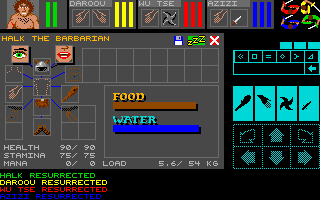
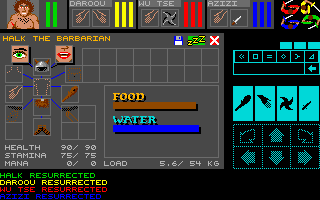
Inventory and spell panel text at CSBWin's pens

diff --git a/tools/dump-magic-panel.ts b/tools/dump-magic-panel.ts
@@ -14,6 +14,10 @@
  *    `CastMagic` clears the runes unless `CastSpell` returned 3 (`:949-955`).
  * 4. The two deliberate divergences (`DEBT.md` → H): a fifth rune is refused, and a champion
  *    with no mana has no tab to click.
+ * 5. Where the runes and the incantation are drawn: `DrawSpellMenuCharacters` from
+ *    `D6W = 225` at `D6W += 14`, y 58 (`doc/CSBwin-src/CSBCode.cpp:8946-8960`), and
+ *    `DisplayMagicSelection` from `D6W = 232` at `D6W += 9`, y 70
+ *    (`doc/CSBwin-src/Magic.cpp:776-796`), a glyph starting at the pen.
  *
  * Run: `npx tsx tools/dump-magic-panel.ts`
  */
@@ -27,7 +31,9 @@ import { addCharacterDefaults } from '../src/engine/AddCharacter';
 import { emptyPossessions, type Champion } from '../src/engine/gameTypes';
 import { ensureSkills } from '../src/engine/skills';
 import { extractUITables } from '../src/renderer/csbwin/UITables';
-import { handleMagicClick } from '../src/renderer/ui/MagicPanel';
+import { createPaletteIndexViewportBuffer } from '../src/renderer/csbwin/CanvasBlitter';
+import { drawTextLineIndexRaw, loadFontData } from '../src/renderer/csbwin/TextRenderer';
+import { drawMagicIncantation, drawSpellMenuCharacters, handleMagicClick } from '../src/renderer/ui/MagicPanel';
 import { createUIState } from '../src/renderer/ui/UIState';
 import { newGame } from './lib/game';
 import { check, finish } from './lib/check';
@@ -184,6 +190,26 @@ async function main(): Promise<void> {
   party.champions[1]!.attributes.maxMana = 0;
   check(clickAt(0, tab(0, 1)[0] + 1) === 0, 'a champion with no mana cannot be picked');
   check(clickAt(0, 513) === 0, 'not by clickX 513 either');
+
+  // ---- 5. The runes and the incantation, against glyphs drawn at CSBWin's own pens.
+  const font = loadFontData(graphics);
+  ui.fontData = font;
+  const drawn = createPaletteIndexViewportBuffer(320, 200, 12);
+  const expected = createPaletteIndexViewportBuffer(320, 200, 12);
+  ui.screenIndexBuffer = drawn;
+  const incantation = [0x60, 0x67, 0x6e];
+  drawSpellMenuCharacters(ui, incantation.length);
+  drawMagicIncantation(ui, incantation);
+  for (let i = 0, x = 225; i < 6; i++) {
+    drawTextLineIndexRaw(expected, font, (x += 14), 58, 4, 0, String.fromCharCode(96 + 6 * 3 + i));
+  }
+  for (let i = 0, x = 232; i < 4; i++) {
+    drawTextLineIndexRaw(expected, font, (x += 9), 70, 4, 0, i < incantation.length ? String.fromCharCode(incantation[i]!) : ' ');
+  }
+  let off = 0;
+  for (let p = 0; p < drawn.pixels.length; p++) if (drawn.pixels[p] !== expected.pixels[p]) off++;
+  console.log(`runes at 239+14i, incantation at 241+9i: ${off} pixels off`);
+  check(off === 0, `the runes and the incantation should sit at CSBWin's pens (${off} pixels off)`);
 
   finish();
 }

diff --git a/src/renderer/ui/Character.ts b/src/renderer/ui/Character.ts
@@ -80,7 +80,7 @@ export function drawAttributePanel(ui: UIState, champion: Champion): void {
     drawTextLineIndexRaw(
       ui.screenIndexBuffer,
       ui.fontData,
-      VIEWPORT_X + 107,
+      VIEWPORT_X + 108,
       VIEWPORT_Y + lineY,
       13,
       null,
@@ -111,7 +111,7 @@ export function drawAttributePanel(ui: UIState, champion: Champion): void {
     drawTextLineIndex(
       ui.screenIndexBuffer,
       ui.fontData,
-      VIEWPORT_X + 107,
+      VIEWPORT_X + 108,
       VIEWPORT_Y + lineY,
       13,
       null,
@@ -120,7 +120,7 @@ export function drawAttributePanel(ui: UIState, champion: Champion): void {
     drawTextLineIndex(
       ui.screenIndexBuffer,
       ui.fontData,
-      VIEWPORT_X + 173,
+      VIEWPORT_X + 174,
       VIEWPORT_Y + lineY,
       valueColor,
       null,
@@ -129,7 +129,7 @@ export function drawAttributePanel(ui: UIState, champion: Champion): void {
     drawTextLineIndex(
       ui.screenIndexBuffer,
       ui.fontData,
-      VIEWPORT_X + 191,
+      VIEWPORT_X + 192,
       VIEWPORT_Y + lineY,
       13,
       null,
@@ -150,10 +150,10 @@ export function drawVitalsAndLoad(ui: UIState, champion: Champion): void {
   const mana = attrs?.mana ?? 0;
   const maxMana = attrs?.maxMana ?? 0;
 
-  const baseX = VIEWPORT_X + 54;
-  const slashX = VIEWPORT_X + 72;
-  const maxX = VIEWPORT_X + 78;
-  const labelX = VIEWPORT_X + 4;
+  const baseX = VIEWPORT_X + 55;
+  const slashX = VIEWPORT_X + 73;
+  const maxX = VIEWPORT_X + 79;
+  const labelX = VIEWPORT_X + 5;
   const lineHealth = VIEWPORT_Y + 116;
   const lineStamina = VIEWPORT_Y + 124;
   const lineMana = VIEWPORT_Y + 132;
@@ -173,7 +173,7 @@ export function drawVitalsAndLoad(ui: UIState, champion: Champion): void {
   drawTextLineIndex(
     ui.screenIndexBuffer,
     ui.fontData,
-    VIEWPORT_X + 103,
+    VIEWPORT_X + 104,
     lineMana,
     color,
     null,
@@ -182,7 +182,7 @@ export function drawVitalsAndLoad(ui: UIState, champion: Champion): void {
   drawTextLineIndex(
     ui.screenIndexBuffer,
     ui.fontData,
-    VIEWPORT_X + 147,
+    VIEWPORT_X + 148,
     lineMana,
     color,
     null,

diff --git a/src/renderer/ui/MagicPanel.ts b/src/renderer/ui/MagicPanel.ts
@@ -109,6 +109,10 @@ export function drawSpellPanel(ui: UIState): void {
   drawMagicIncantation(ui, caster.incantation);
 }
 
+/**
+ * `DrawSpellMenuCharacters` (`doc/CSBwin-src/CSBCode.cpp:8946-8960`): the six runes of
+ * the current step, from `D6W = 225`, each at `D6W += 14`.
+ */
 export function drawSpellMenuCharacters(ui: UIState, step: number): void {
   if (!ui.screenIndexBuffer || !ui.fontData) return;
   const y = 58;
@@ -119,11 +123,15 @@ export function drawSpellMenuCharacters(ui: UIState, step: number): void {
   }
 }
 
+/**
+ * `DisplayMagicSelection` (`doc/CSBwin-src/Magic.cpp:776-796`): the incantation so far,
+ * from `D6W = 232`, each at `D6W += 9`, blanks past its end.
+ */
 export function drawMagicIncantation(ui: UIState, incantation: number[]): void {
   if (!ui.screenIndexBuffer || !ui.fontData) return;
   const y = 70;
   for (let i=0; i<4; i++) {
-    const x = 231 + 9 * (i + 1);
+    const x = 232 + 9 * (i + 1);
     const ch = (i >= incantation.length) ? ' ' : String.fromCharCode(incantation[i]);
     drawTextLineIndexRaw(ui.screenIndexBuffer, ui.fontData, x, y, 4, 0, ch);
   }

diff --git a/src/renderer/ui/Inventory.ts b/src/renderer/ui/Inventory.ts
@@ -43,7 +43,7 @@ export function drawInventoryScreen(ui: UIState): void {
 
   if (ui.fontData) {
     const nameColor = ui.partyState.cursorOwner === selected ? 9 : 13;
-    const nameBaseX = VIEWPORT_X + 2;
+    const nameBaseX = VIEWPORT_X + 3;
     drawTextLineIndex(
       ui.screenIndexBuffer,
       ui.fontData,
@@ -385,7 +385,7 @@ export function drawObjectInfoPanel(ui: UIState, objectId: ObjectID): void {
       drawTextLineIndex(
         ui.screenIndexBuffer,
         ui.fontData,
-        VIEWPORT_X + 133,
+        VIEWPORT_X + 134,
         VIEWPORT_Y + 68,
         13,
         null,

diff --git a/tools/dump-mastery-panel.ts b/tools/dump-mastery-panel.ts
@@ -64,8 +64,8 @@ import { check, finish } from './lib/check';
 
 const SCREEN_W = 320;
 const SCREEN_H = 200;
-/** `TextToViewport(108, …)`; the port's text origin sits one pixel left of CSBWin's. */
-const LINE_X = VIEWPORT_X + 107;
+/** `TextToViewport(108, …)`: the viewport sits at screen x 0, and a glyph starts at the pen. */
+const LINE_X = VIEWPORT_X + 108;
 /** `D6W = 58; … D6W += 7;` */
 const LINE_Y0 = 58;
 const LINE_DY = 7;

diff --git a/doc/CSBWIN_UI_REFERENCE.md b/doc/CSBWIN_UI_REFERENCE.md
@@ -61,6 +61,7 @@ This document lists UI rendering facts that are directly visible in the CSBWin C
 - The font data is loaded from graphic `0x822d` into `d.Pointer12926` (`doc/CSBwin-src/CSBCode.cpp:1776`).
 - `TextOut_OneLine` advances characters in 6-pixel steps and uses `x` modulo 16-bit alignment logic (`doc/CSBwin-src/Graphics.cpp:321`, `doc/CSBwin-src/Graphics.cpp:346`).
 - A glyph is 5 pixels wide, the font's bits 4..0, and starts at the pen: `BltOneChar` shifts the byte left by `11-D3W`, so bit 4 lands on pixel `x` and bit 0 on `x+4` (`doc/CSBwin-src/Graphics.cpp:218`). The font never sets bit 5. The mask `0x07ff07ff >> D3W` clears the same five pixels only (`doc/CSBwin-src/Graphics.cpp:341`), so a background colour fills `x..x+4` and the sixth pixel of the cell, the gap before the next character, keeps what was under it.
+- So every text call takes CSBWin's pen x unchanged, never nudged by a pixel: `TextToViewport(x, …)` is screen x `x` (the viewport sits at x 0), e.g. the inventory's name at 3 (`doc/CSBwin-src/Character.cpp:1324`), `HEALTH` at 5 (`doc/CSBwin-src/CSBCode.cpp:7498`), the current/`/`/max values at 55/73/79 (`doc/CSBwin-src/Character.cpp:1070-1076`), `LOAD` at 104 and the weight at 148 (`:1440`, `:1454`), masteries and attributes at 108/174/192 (`:4603-4634`), the eye's object name at 134 (`:3617`); the spell runes at `225 + 14*(i+1)` (`doc/CSBwin-src/CSBCode.cpp:8950-8955`) and the incantation at `232 + 9*(i+1)` (`doc/CSBwin-src/Magic.cpp:783-795`). `tools/dump-mastery-panel.ts` and `tools/dump-magic-panel.ts` check the last three.
 - The scrolling text system places lines at `x = PrintColumn * 6`, `y = PrintRow * 7 + 177` (commented but still authoritative for spacing) (`doc/CSBwin-src/CSBCode.cpp:1622`).
 
 ## Icon grid (hands, backpack, chest)
